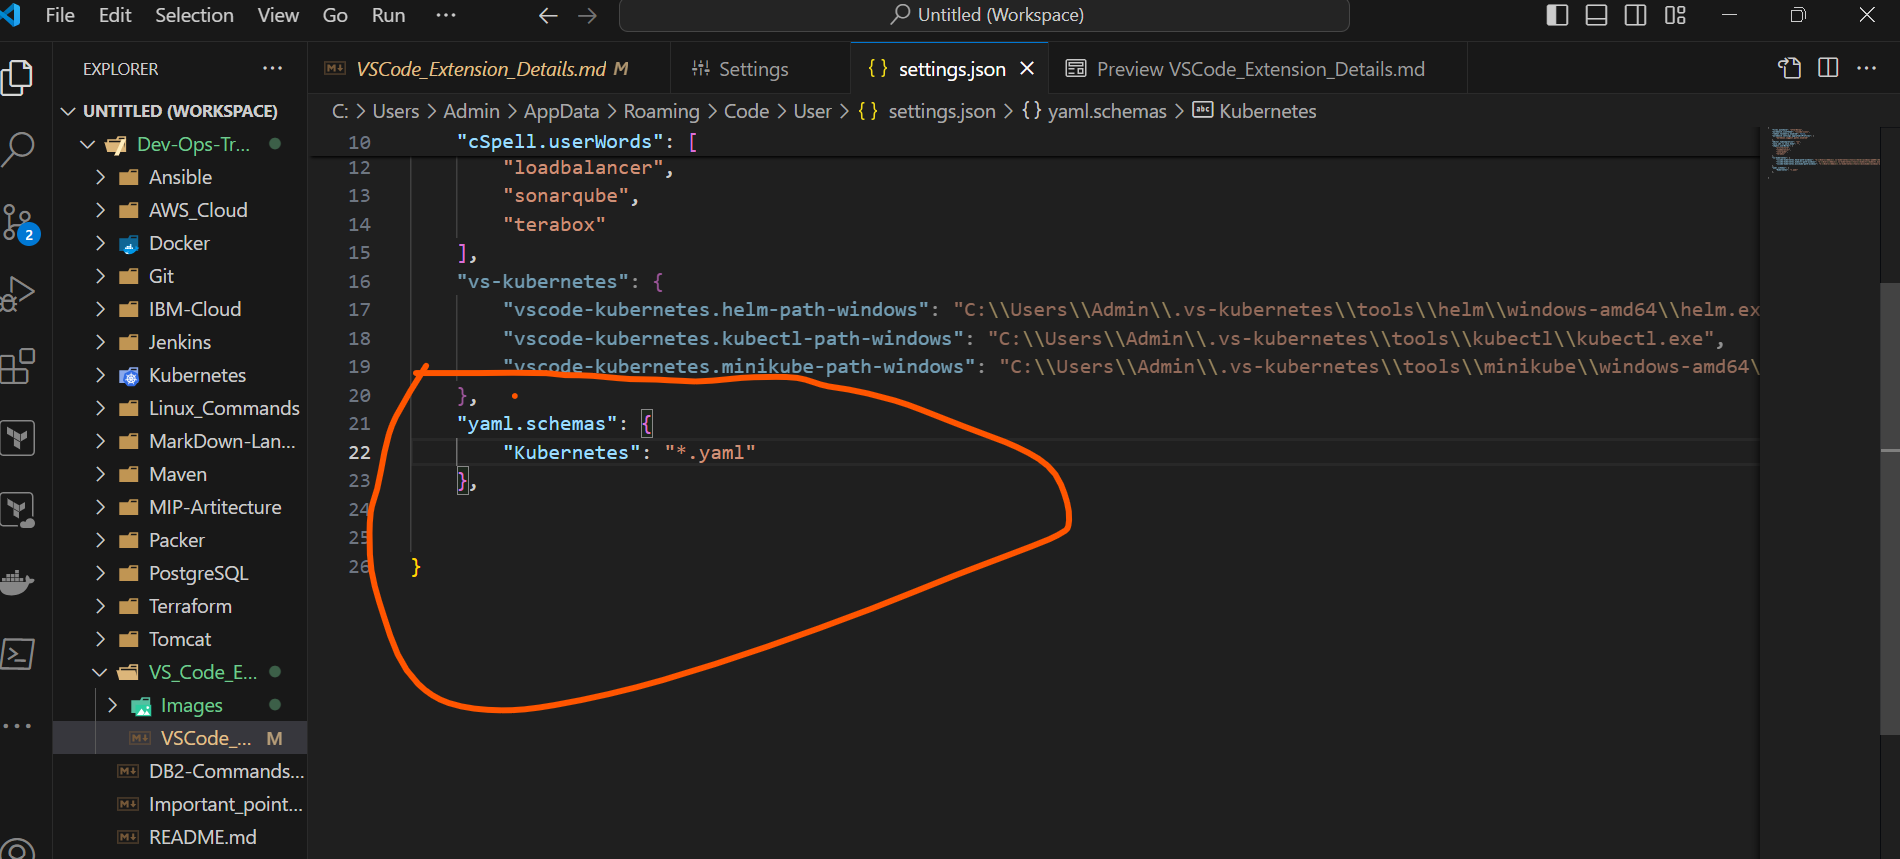
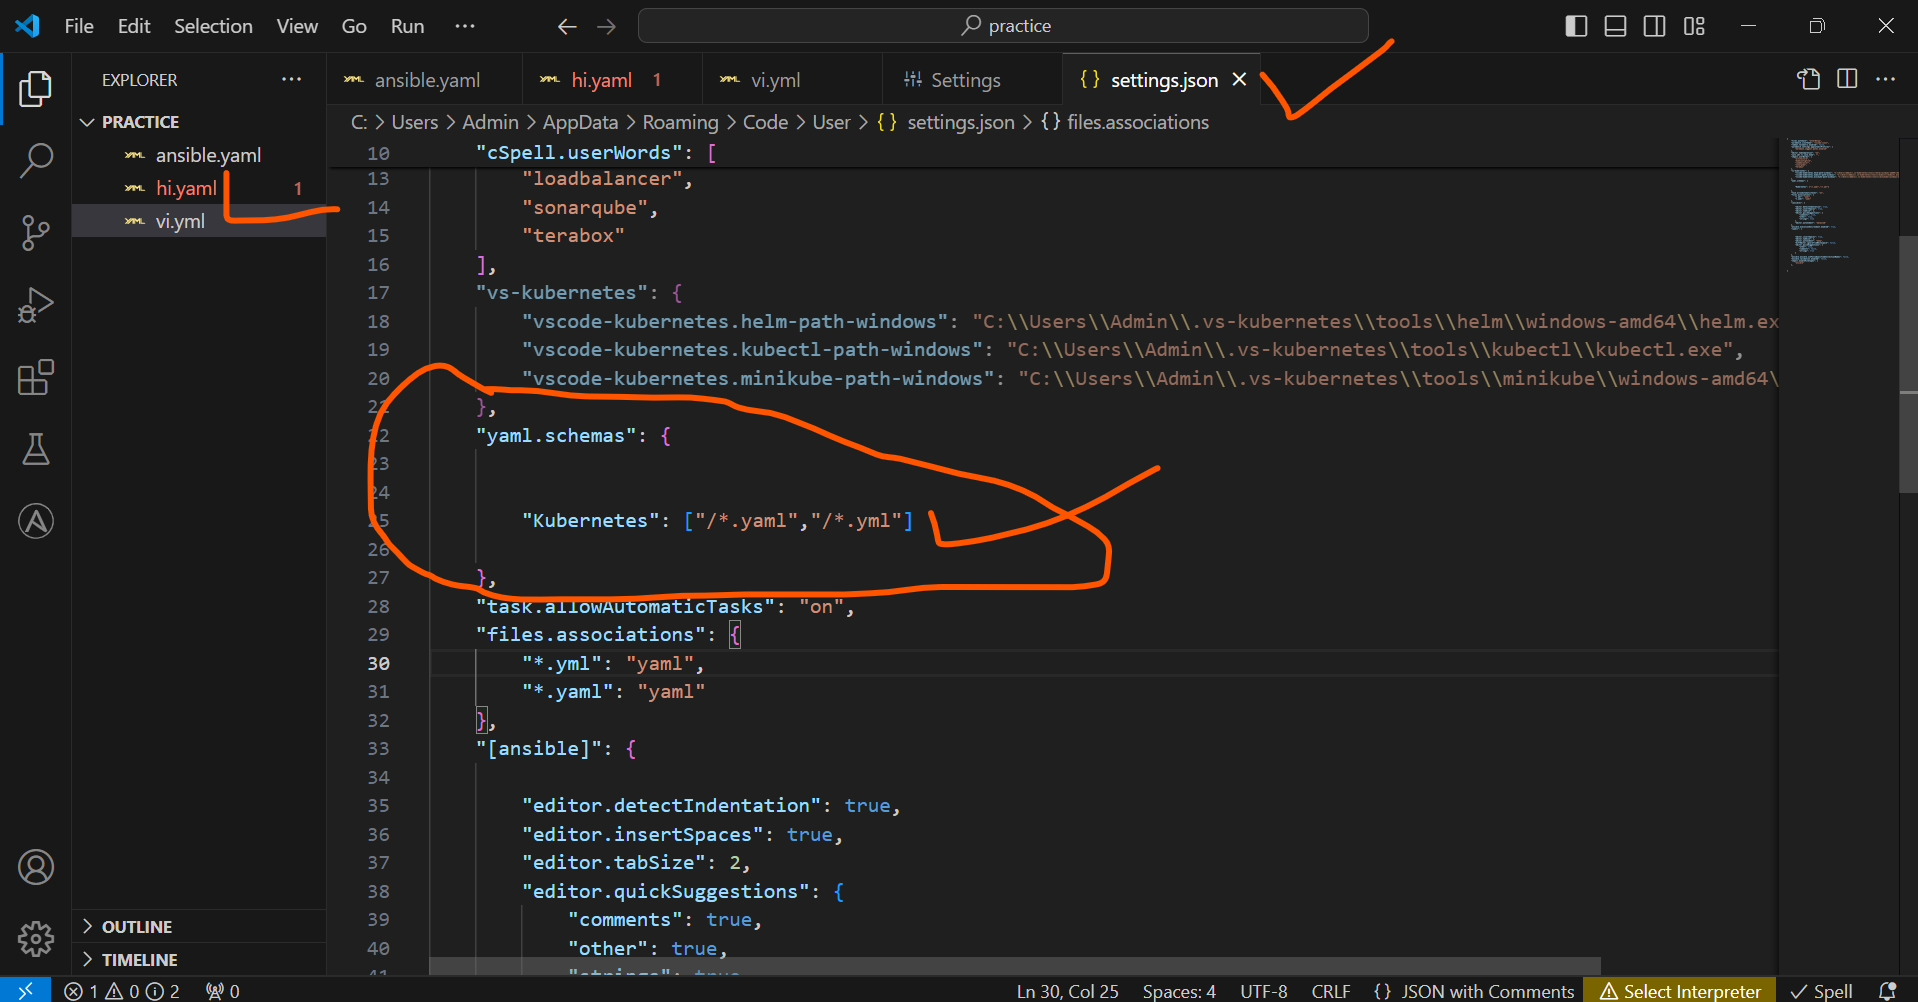
.

diff --git a/VS_Code_Extension/VSCode_Extension_Details.md b/VS_Code_Extension/VSCode_Extension_Details.md
@@ -1,73 +1,87 @@
+VSCode Extension Details
+------------------------
+* Needs to install below extension work on particular technologies so that it will support in predefined steps
 
-## VSCode Extension Details:-
+### Ansible Extension:
+* Needs to install below ansible extension to work with ansible predefined steps for yaml files
+  * **Note:** when writing ansible yaml file, we needs to select the Language mode to Ansible at the right side bottom of vscode, if not ansible extension will not work.
 
-### Needs add all this below extension on VScode when ur working on particular technologies: 
-
-
-* yaml extension => for all the yaml file includes(k8s,ansible and CI/CD):
-![Preview](./Images/vscode4.png)
-![Preview](./Images/vscode6.png) 
-* K8s above these two extension for helping predefined words while writing the yaml resource for k8s, and also add this below items in settings.json file
-```
-
-"yaml.schemas": {
-  "Kubernetes": "*.yaml"
-}
-```
-![PReview](./Images/vscode17.png)
-* K8s to get entire/complete resources yaml file install below extension
-![Preview](./Images/vscode18.png)
- 
-* And also below ansible extension only for ansible
-* Ansible  
 ![Preview](./Images/vscode7.png)
+* When we install this above ansible extension, below extension will automatically will be installed and also with that another few python related extension also will be installed
+![Preview](./Images/vscode6.png)
 
-* code spell checker => to check the spelling:
+
+### Kubernetes Extension:
+* Needs to install below k8s extension to work with k8s predefined steps for yaml files
+   * **Note:** when writing the k8s yaml file, we needs to select the Language mode to k8s at the right side bottom of vscode, if not k8s extension will not work. and also needs to do below extra step
+      * type ctrl+shift+p => then type > `prefrences` > `settings` => then type > `yaml` => then select under `Yaml:Schemas` > `Edit in settings.json` => then add this below content => then both extension file will work means `.yaml/.yml` if not only `.yaml` will for as default so we are changing it. 
+       ```
+        "yaml.schemas": {
+
+        "Kubernetes": ["/*.yaml","/*.yml"]
+        
+        },
+       ```
+![Preview](./Images/vscode4.png)
+* Like below
+
+![PReview](./Images/vscode17.png)
+* Install this below K8s Extension to get entire/complete resources/object yaml files
+![Preview](./Images/vscode18.png)
+
+### Code Spell Checker Extension:
+* Install this below extension to check the spelling of the code
 ![Preview](./Images/vscode1.png)
 
-* aws tool kit  - to work aws
-
-* cloudformation - for aws cloudformation 
+### AWS CloudFormation Extension:
+* Needs to install aws cloudformation below extension to work with cloudformation template it will give predefined template steps
 ![Preview](./Images/vscode19.png)
 
-* bash debug - for debug the shell script
-
-* Terraform approved by hashicorp => for any cloud to deploy infra as code:
+### Terraform Extension:
+* Install terraform extension to work with terraform code as infrastructure to get predefined terraform code
 ![Preview](./Images/vscode3.png)
 
-* VScode icon => for visual studio code designs
+### VScode Extension:
+* this below vscode extension for visual studio code design
 ![Preview](./Images/vscode5.png)
 
-* Docker approved by microsoft => for docker files:
+### Docker Extension:
+* Needs to install below docker extension to work with dockerfile predefined steps
 ![Preview](./Images/vscode2.png)
 
-* Azure Devops => Azure Pipelines Approved by Microsoft 
-![Preview](./Images/vscode.png)
-* Azure cloud ARM template to work => Azure Resource Manager 
+### Azure Resource Manager(ARM) Extension:
+* Needs to install ARM extension to work with ARM template it will help to get predefined template steps
 ![Preview](./Images/vscode8.png)
 
-* Azure Cloud Bicep to work => install Bicep
+### Azure Bicep Extension:
+* Needs to install azure bicep extension to work with bicep template we will get  predefined template steps
 ![Preview](./Images/vscode9.png)
 
-* Azure cli command to work => install Azure CLI Tools
+### Azure Cli Tools Extension:
+* Needs to install azure cli tool to work with azure cli command
 ![Preview](./Images/vscode10.png)
 
-* Azure powershell to work with powershell commands => install PowerShell 
+### Azure Powershell Extension:
+* Needs to install azure powershell extension to work with powershell commands
 ![Preview](./Images/vscode11.png)
 
-* These below extension if required then install if not no:
-    * Azure functions to work with functions service of azure and we can create any functions
-    ![Preview](./Images/vscode12.png)
-    * Azure App Services to work with azure app services
-    ![Preview](./Images/vscode13.png)
-    * Azure Spring Apps to work with azure spring app services
-    ![Preview](./Images/vscode14.png)
-
-* Docker Compose to work with docker compose yaml files needs to install 
+### Docker Compose Extension:
+* Needs to install docker compose extension to work with docker-compose.yml files it will give us predefined steps
 ![Preview](./Images/vscode15.png)
 
-* Jenkins declarative and scripted pipeline and also other global tools like Jfrog, sonarqube to work with them or  write pipeline code needs to install this extension
+### Jenkins Extension:
+* Needs to install Jenkins extension for declarative and scripted pipeline and also other global tools like Jfrog, sonarqube to work with them or to write pipeline code needs to install this extension and it will give us predefined pipeline steps
 ![Preview](./Images/vscode16.png)
 
+### Azure Devops Extension:
+* Needs to install azure-pipelines extension for azure devops pipelines we will get predefined steps
+![Preview](./Images/vscode.png)
 
-  
+
+### These below extension if required then install if not no:
+* Azure functions to work with functions service of azure and we can create any functions
+![Preview](./Images/vscode12.png)
+* Azure App Services to work with azure app services
+![Preview](./Images/vscode13.png)
+* Azure Spring Apps to work with azure spring app services
+![Preview](./Images/vscode14.png)
